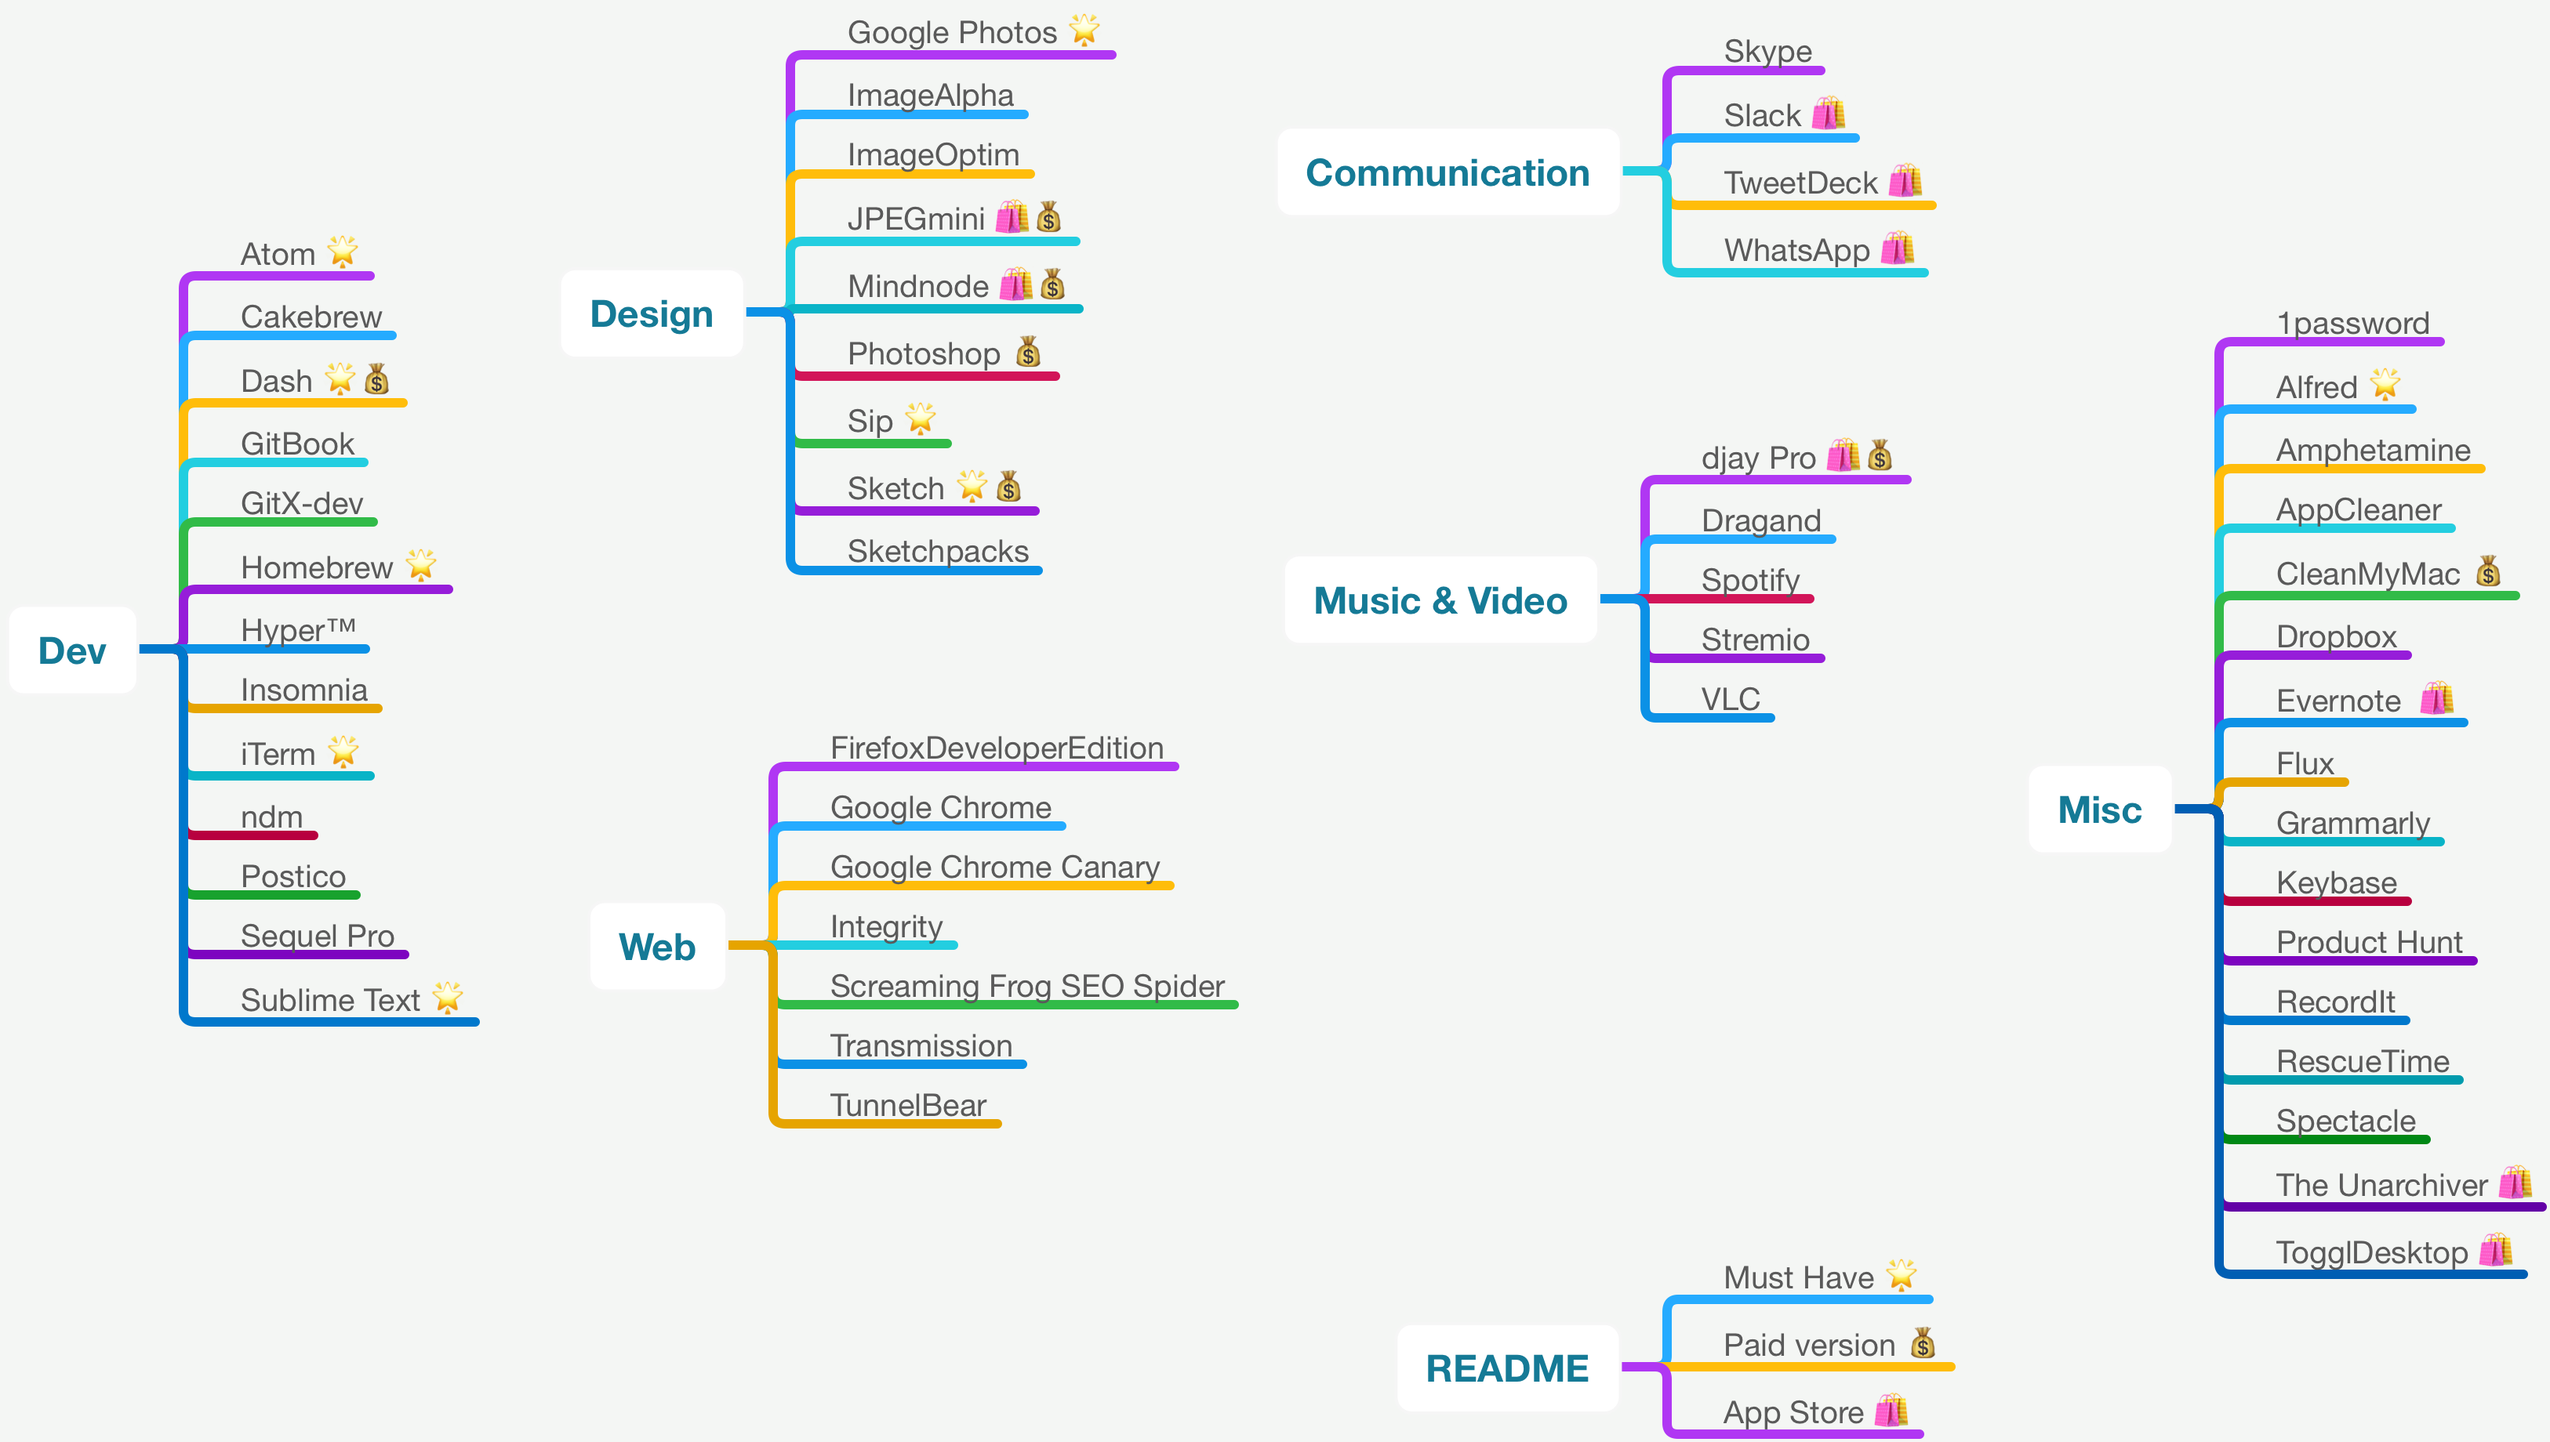
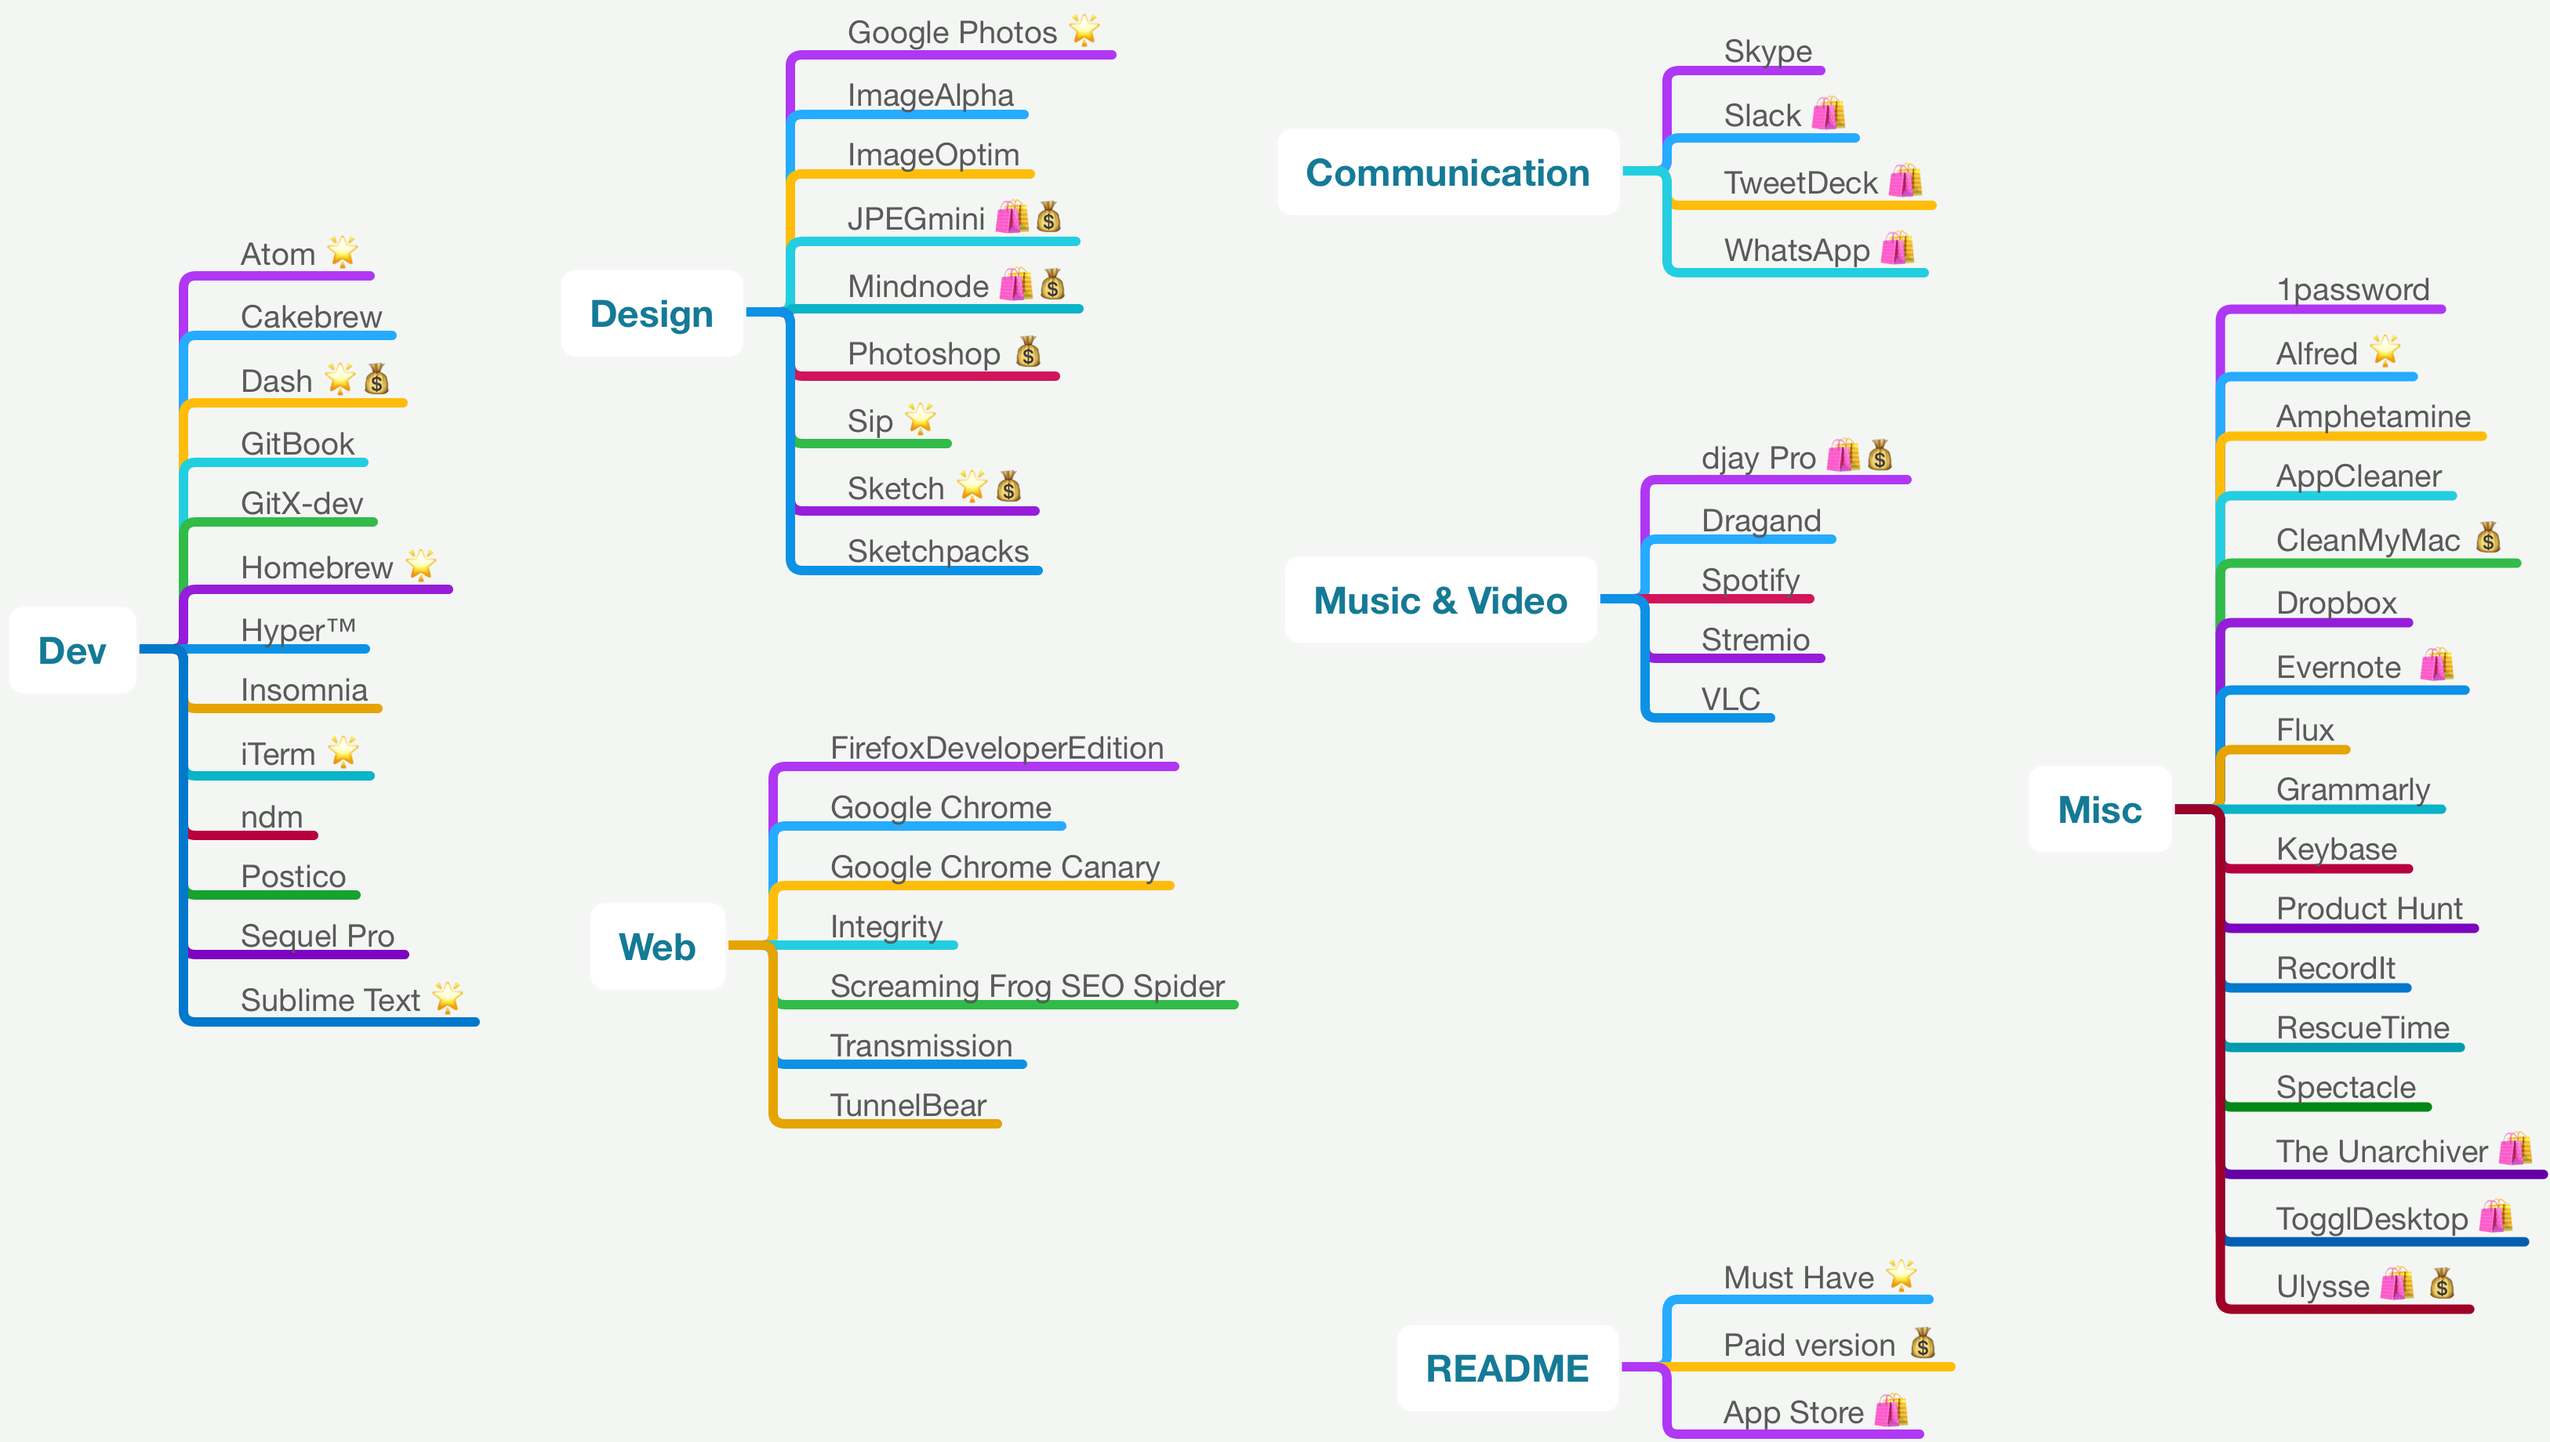
:crystal_ball:

Changed region(s): [[0.8386, 0.1859, 1.0, 0.9293]]

diff --git a/README.md b/README.md
@@ -34,7 +34,7 @@ Here is the list of all the apps I use to be efficient as a __front-end develope
 - __[JPEGmini 🛍💰](https://itunes.apple.com/fr/app/jpegmini/id498944723?l=en&mt=12)__ – Reduce photo files size by up to 80% without compromising quality.
 - __[MindNode 🛍💰](https://itunes.apple.com/fr/app/mindnode-2-delightful-mind-mapping/id992076693?l=en&mt=12)__ – Delightful Mind Mapping for Mac, iPad & iPhone.
 - __[Photoshop 💰](http://www.photoshop.com/)__ – Raster graphics editor since 1988.
-- __[Sip 🌟](https://sipapp.io/)__ – The best color picker for Mac for collecting, organizing & sharing palettes.
+- __[Sip 🌟 💰](https://sipapp.io/)__ – The best color picker for Mac for collecting, organizing & sharing palettes.
 - __[Sketch 💰](https://www.sketchapp.com/)__ – Professional digital design for Mac.
 - __[Sketchpacks](https://www.sketchpacks.com/)__ – Browse, manage, and auto-update your Sketch plugins from the menu bar.
 
@@ -72,7 +72,6 @@ Here is the list of all the apps I use to be efficient as a __front-end develope
 - __[AppCleaner](https://freemacsoft.net/appcleaner/)__ – AppCleaner finds unnecessarily files and safely deletes them.
 - __[CleanMyMac 💰](https://cleanmymac.com/)__ – The world's best Mac cleaner.
 - __[Dropbox](https://www.dropbox.com/downloading)__ – Keeps your files and your team in sync.
-- __[Evernote 🛍](https://itunes.apple.com/fr/app/evernote-stay-organized/id406056744?l=en&mt=12)__ – Sync all your notes on desktop and mobile devices.
 - __[Flux](https://justgetflux.com/)__ – Warms up your computer display at night, to match your indoor lighting.
 - __[Grammarly](https://grammarly.com)__ – Free grammar checker instantly eliminates grammatical errors and enhances your writing.
 - __[Keybase](https://keybase.io/)__ – Public key crypto for everyone, publicly auditable proofs of identity.
@@ -82,3 +81,4 @@ Here is the list of all the apps I use to be efficient as a __front-end develope
 - __[Spectacle](https://github.com/eczarny/spectacle)__ – Organize your windows without using a mouse.
 - __[The Unarchiver 🛍](https://itunes.apple.com/us/app/the-unarchiver/id425424353?mt=12)__ – Free Unarchiving Software for macOS
 - __[TogglDesktop 🛍](https://itunes.apple.com/fr/app/toggl-desktop/id957734279?l=en&mt=12)__ – Descktop app for online time tracking.
+- __[Ulysse 🛍 💰](https://itunes.apple.com/us/app/ulysses/id1225570693?mt=12)__ – One of the best experience available for writing content. Start with markdown and export everywhere.
